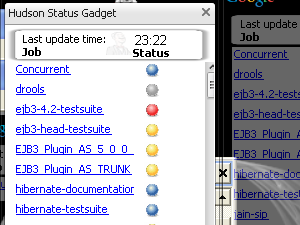
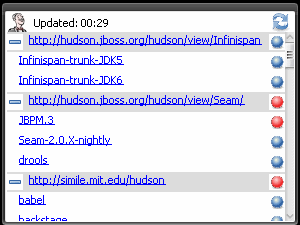
google-desktop-gadget.  new version 1.0 screenshots
git-svn-id: https://hudson.dev.java.net/svn/hudson/trunk/hudson/plugins@18652 71c3de6d-444a-0410-be80-ed276b4c234a

diff --git a/google-desktop-gadget/main.js b/google-desktop-gadget/main.js
@@ -69,7 +69,7 @@ function populateViewDataFromOptions() {
 	
 	// urls are stored comma separated
 	hudsonViewList = hudsonViewUrls.split(",");
-
+	hudsonViewData = [];
 	for (viewUrlIndex in hudsonViewList) {
 		var viewUrl = hudsonViewList[viewUrlIndex];
 		if (viewUrl.length > 0) {
